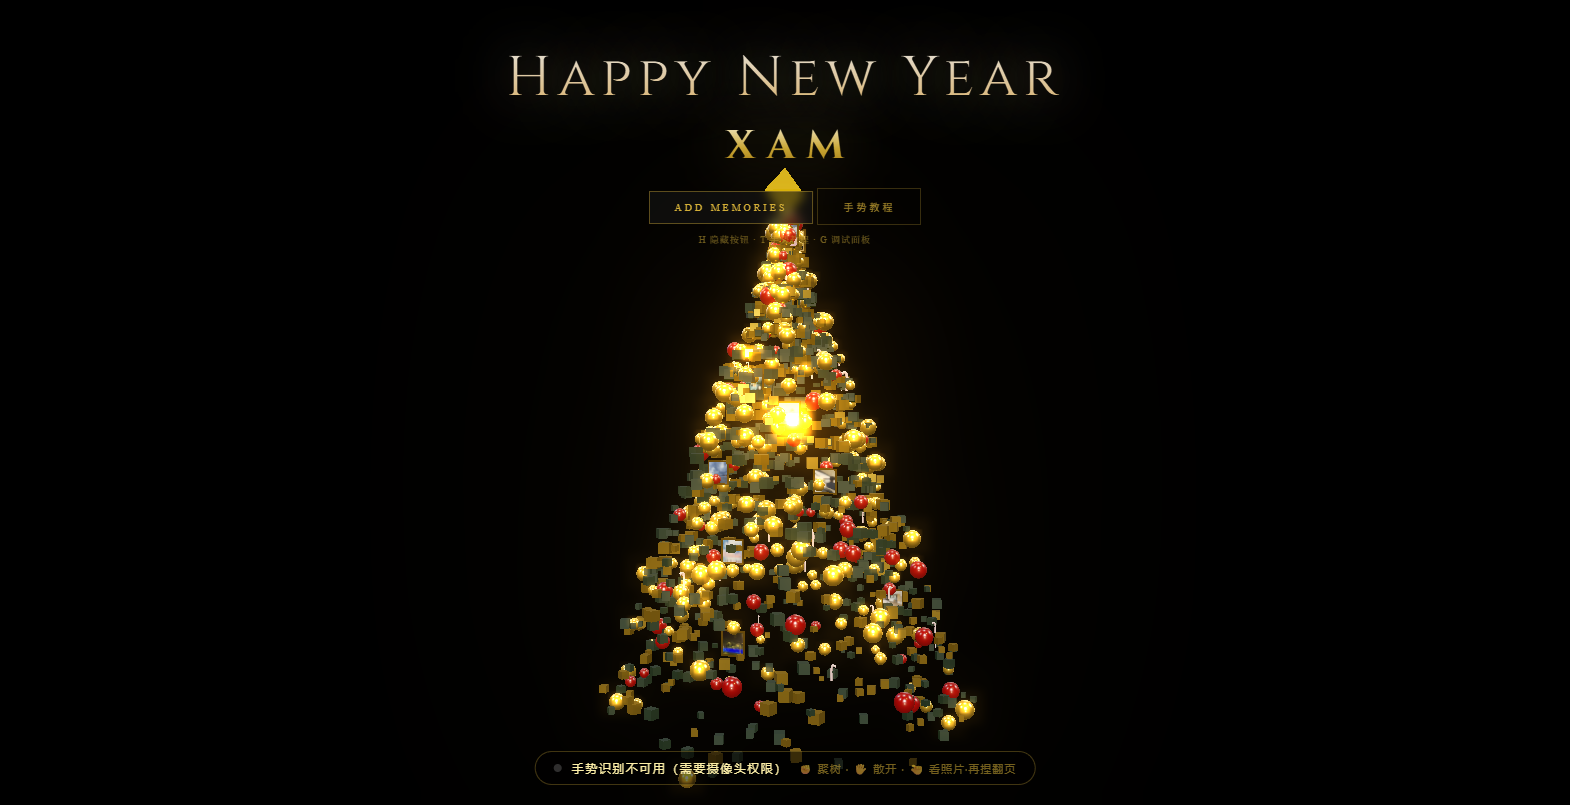
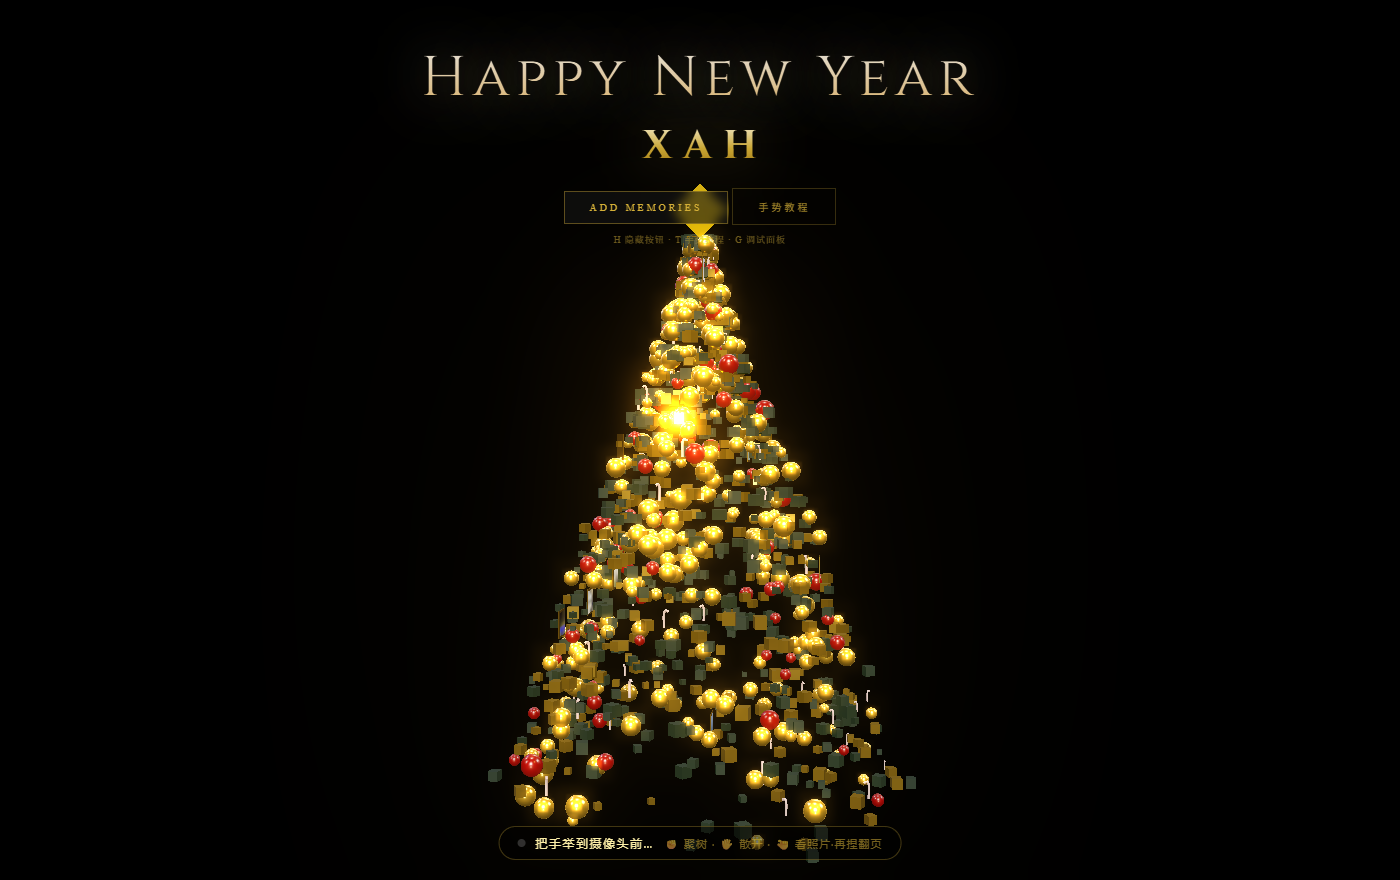
chore: 署名 XAM 改为 XAH，并更新效果图

Changed region(s): [[0.3379, 0.1553, 0.6757, 0.9938], [0.3071, 0.0621, 0.7064, 0.1242]]

diff --git a/index.html b/index.html
@@ -3,7 +3,7 @@
 <head>
 <meta charset="UTF-8">
 <meta name="viewport" content="width=device-width, initial-scale=1.0">
-<title>Happy New Year · XAM</title>
+<title>Happy New Year · XAH</title>
 <style>
   html, body { margin: 0; height: 100%; background: #000; }
   body {
@@ -49,7 +49,7 @@
 
 <div class="wrap" id="wx">
   <h1>HAPPY NEW YEAR</h1>
-  <div class="sub">XAM</div>
+  <div class="sub">XAH</div>
   <div class="tip">
     这个页面要用<b>摄像头</b>识别手势，<br>
     微信内置浏览器通常拿不到摄像头权限。

diff --git a/main.js b/main.js
@@ -71,7 +71,7 @@ function initThree() {
   renderer.toneMappingExposure = 2.2;
   container.appendChild(renderer.domElement);
   mainGroup = new THREE.Group();
-  // 整体下移一点，给顶部标题（Happy New Year / XAM）留出呼吸空间
+  // 整体下移一点，给顶部标题（Happy New Year / XAH）留出呼吸空间
   mainGroup.position.y = -1.2;
   scene.add(mainGroup);
 }

diff --git a/christmas-tree-gesture.html b/christmas-tree-gesture.html
@@ -49,7 +49,7 @@ h1 {
 }
 
 /* 标题下方的大写署名 */
-.xam {
+.signature {
  margin-top: 8px;
  font-family: 'Cinzel', 'Times New Roman', serif;
  font-size: clamp(22px, 4.8vw, 40px);
@@ -332,7 +332,7 @@ h1 {
 
 <div id="ui-layer">
  <h1>Happy New Year</h1>
- <div class="xam">XAM</div>
+ <div class="signature">XAH</div>
 
  <div class="upload-wrapper">
  <label class="upload-btn">

diff --git a/christmas-tree.html b/christmas-tree.html
@@ -294,7 +294,7 @@
     ctx.font = 'italic 45px "Brush Script MT", "Monotype Corsiva", cursive';
     ctx.textBaseline = 'alphabetic';
     ctx.fillText('Happy New Year', 40, HEIGHT / 3);
-    ctx.fillText('XAM', 40, HEIGHT / 3 + 60);
+    ctx.fillText('XAH', 40, HEIGHT / 3 + 60);
 
     // 前景雪花
     updateSnow2d(dt);

diff --git a/README.md b/README.md
@@ -1,4 +1,4 @@
-# Happy New Year · XAM
+# Happy New Year · XAH
 
 一个用**手势控制**的 3D 新年树 —— Three.js + MediaPipe Hands，纯前端、离线可跑。
 
